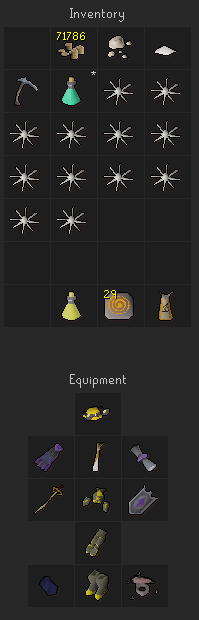
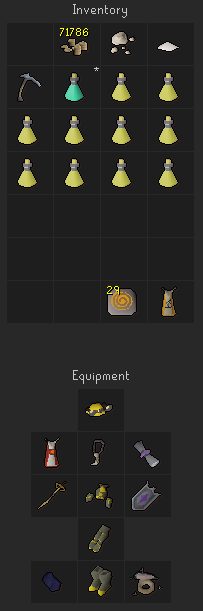
Updated gear and references to BiS gear

diff --git a/README.md b/README.md
@@ -17,17 +17,17 @@ Prayer level & bonus for 9:30 of protect range (Set quick prayer to protect rang
 - 7:30 is also fine, but you will have to manage your prayer manually a little bit & bring a spare prayer potion for emergencies
 - Alternatively replace prospector with Proselyte for easy mode prayer
 - _*Seven (7) free inventory slots!*_
-- If you can buy/afford to use brews, replace the karambwans with them
+- If you are an iron that can't afford spending brews, replace them with what you have available, try to have at least 200HP of healing
 - Regen bracelet is nice to have but not required
-- If you can afford the loss of prayer bonus, HP Cape > Ardy Cape
-- Replace Stole with whatever your BiS prayer bonus item is
+- If you are struggling for prayer bonus replace HP Cape with Ardy Cape
+- Replace Dragonbone Necklace with whatever your BiS prayer bonus item is (Stole, Holy Symbol, Fury etc.)
 - Falador Shield(4) can act as your emergency prayer potion, though Holy Books (finished or not) and Broodoo Shields are all just as good (+5)
 - A quick way to restore HP/Prayer (Pool & House Teles/Con Cape, Desert Amulet 4, Ferox Tele etc.)
 - Numulite is for entering the mine, 30 is required to start, you will profit over time
 - *Keep a few VM teletabs in your bank in case of death!*
 - Auto retaliate _off!_
 
-![Example Ironman Gear Setup](Images/Gear.png)
+![Example BiS Gear Setup](Images/Gear.png)
 
 ### General Pathing
 A bulk of learning VM is learning how to path around and get to the places you need to go.
@@ -95,6 +95,9 @@ In Quads BC starts on the west side and goes south to B Vent, then joins A when 
 - At 5:15 if stability is below 50%, head to A Vent and prepare to check and fix A after the reset
 - If after the 5:00 reset there are three double digit drops in stability, flip A Chamber immediately
 - If the stability is already low before reset, mine rock 4 from the West side to be able to flip A faster
+
+#### Leech (5 person team)
+
 
 ### Duos
 Duos combine elements from Trio BCCF and BC roles.
